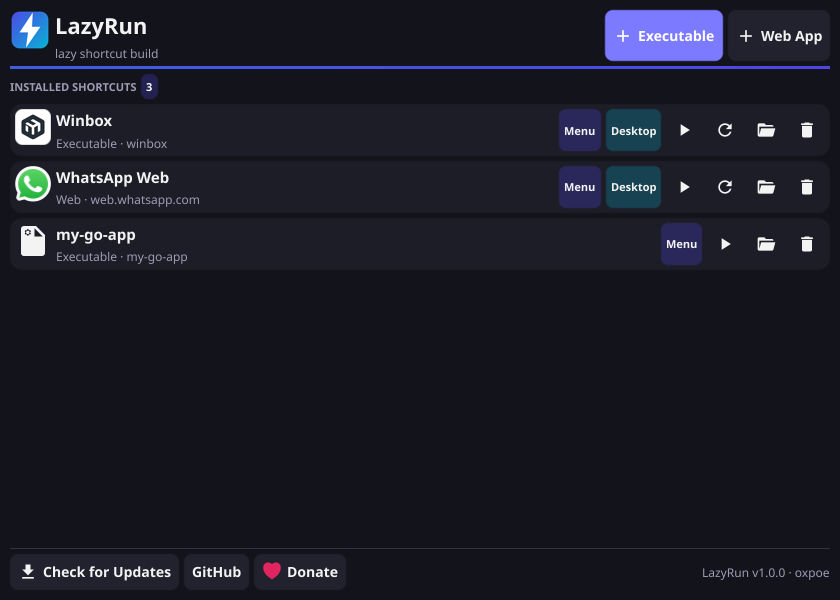
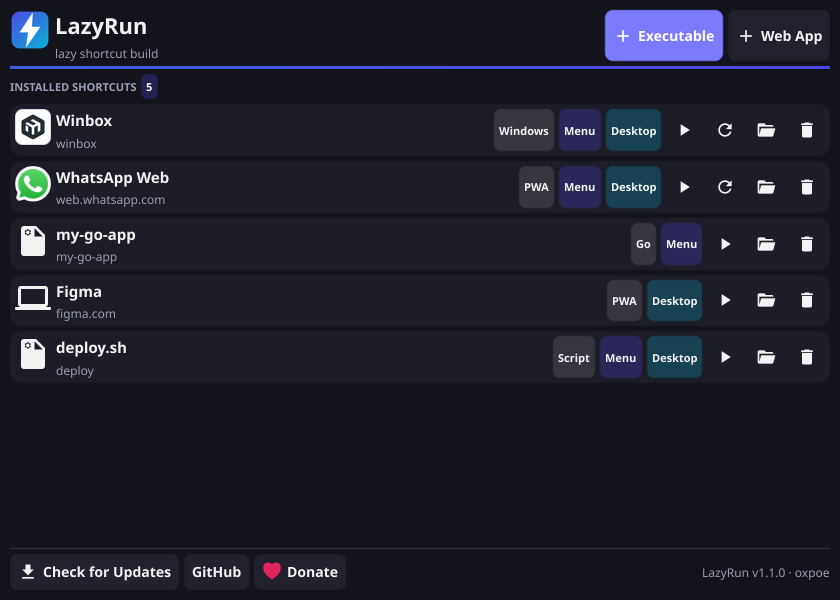
Label jenis aplikasi dengan auto-detect (Go/AppImage/Electron/Script/Windows/Binary/PWA)
- internal/shortcut/kind.go: deteksi dari isi berkas - build info Go, magic
  AppImage, resources/*.asar untuk Electron, shebang untuk script, MZ untuk .exe
- .exe Windows kini boleh dipasang dan dijalankan lewat wine (Exec=wine <path>);
  kalau wine tidak terpasang, install ditolak dengan pesan jelas
- metadata menyimpan kind; chip jenis ditampilkan di setiap baris shortcut
  (data lama tetap tampil sebagai Executable/PWA)
- dialog menampilkan hasil deteksi setelah berkas dipilih, mis. 'winbox.exe - windows'
- README: bagian label otomatis + screenshot baru

diff --git a/internal/shortcut/kind_test.go b/internal/shortcut/kind_test.go
@@ -1,0 +1,80 @@
+package shortcut
+
+import (
+	"os"
+	"path/filepath"
+	"testing"
+)
+
+func TestDetectKind(t *testing.T) {
+	dir := t.TempDir()
+
+	write := func(name string, head []byte) string {
+		path := filepath.Join(dir, name)
+		if err := os.WriteFile(path, append(head, make([]byte, 64)...), 0o755); err != nil {
+			t.Fatal(err)
+		}
+		return path
+	}
+
+	elf := []byte{0x7f, 'E', 'L', 'F', 0x02, 0x01, 0x01, 0x00}
+
+	cases := []struct {
+		name string
+		path string
+		want string
+	}{
+		{"windows exe", write("winbox.exe", []byte("MZ\x90\x00")), KindWindows},
+		{"script", write("tool.sh", []byte("#!/bin/sh\n")), KindScript},
+		{"appimage", write("app.AppImage", append(append([]byte{}, elf...), 'A', 'I', 0x02, 0x00)), KindAppImage},
+		{"binary biasa", write("binary", elf), KindBinary},
+	}
+
+	for _, c := range cases {
+		t.Run(c.name, func(t *testing.T) {
+			if got := DetectKind(c.path); got != c.want {
+				t.Errorf("DetectKind() = %q, mau %q", got, c.want)
+			}
+		})
+	}
+
+	// binary Go: test ini sendiri hasil build Go, jadi harus terdeteksi "go"
+	exe, err := os.Executable()
+	if err != nil {
+		t.Fatal(err)
+	}
+	if got := DetectKind(exe); got != KindGo {
+		t.Errorf("DetectKind(test binary) = %q, mau %q", got, KindGo)
+	}
+}
+
+func TestDetectKindElectron(t *testing.T) {
+	dir := t.TempDir()
+	app := filepath.Join(dir, "myapp")
+	if err := os.WriteFile(app, append([]byte{0x7f, 'E', 'L', 'F', 0x02, 0x01, 0x01, 0x00}, make([]byte, 32)...), 0o755); err != nil {
+		t.Fatal(err)
+	}
+	if err := os.MkdirAll(filepath.Join(dir, "resources"), 0o755); err != nil {
+		t.Fatal(err)
+	}
+	if err := os.WriteFile(filepath.Join(dir, "resources", "app.asar"), []byte("x"), 0o644); err != nil {
+		t.Fatal(err)
+	}
+
+	if got := DetectKind(app); got != KindElectron {
+		t.Errorf("DetectKind(electron) = %q", got)
+	}
+}
+
+func TestDetectKindUnknownFile(t *testing.T) {
+	path := filepath.Join(t.TempDir(), "catatan.txt")
+	if err := os.WriteFile(path, []byte("halo"), 0o644); err != nil {
+		t.Fatal(err)
+	}
+	if got := DetectKind(path); got != "" {
+		t.Errorf("teks biasa tidak punya kind, dapat %q", got)
+	}
+	if got := DetectKind(filepath.Join(t.TempDir(), "tidak-ada")); got != "" {
+		t.Errorf("berkas tidak ada harus kosong, dapat %q", got)
+	}
+}

diff --git a/internal/shortcut/kind.go b/internal/shortcut/kind.go
@@ -1,0 +1,69 @@
+package shortcut
+
+import (
+	"bytes"
+	"debug/buildinfo"
+	"os"
+	"path/filepath"
+)
+
+// Jenis aplikasi yang bisa dikenali LazyRun.
+const (
+	KindGo       = "go"
+	KindAppImage = "appimage"
+	KindElectron = "electron"
+	KindScript   = "script"
+	KindWindows  = "windows"
+	KindBinary   = "binary"
+	KindPWA      = "pwa"
+)
+
+// DetectKind menebak jenis berkas yang dipilih user:
+// binary Go, AppImage, aplikasi Electron, script, .exe Windows, atau binary biasa.
+func DetectKind(path string) string {
+	f, err := os.Open(path)
+	if err != nil {
+		return ""
+	}
+	head := make([]byte, 12)
+	n, _ := f.Read(head)
+	f.Close()
+	head = head[:n]
+
+	switch {
+	case bytes.HasPrefix(head, []byte("MZ")):
+		return KindWindows
+	case bytes.HasPrefix(head, []byte("#!")):
+		return KindScript
+	case isAppImageHead(head):
+		return KindAppImage
+	case bytes.HasPrefix(head, []byte{0x7f, 'E', 'L', 'F'}):
+		if _, err := buildinfo.ReadFile(path); err == nil {
+			return KindGo
+		}
+		if hasElectronResources(path) {
+			return KindElectron
+		}
+		return KindBinary
+	}
+	return ""
+}
+
+// hasElectronResources mencari berkas penanda Electron di sebelah binary.
+func hasElectronResources(path string) bool {
+	resources := filepath.Join(filepath.Dir(path), "resources")
+	for _, name := range []string{"app.asar", "default_app.asar", "app"} {
+		if _, err := os.Stat(filepath.Join(resources, name)); err == nil {
+			return true
+		}
+	}
+	return false
+}
+
+// isAppImageHead memeriksa magic AppImage (ELF + "AI" pada offset 8).
+// Sengaja terpisah dari internal/update supaya paket ini tidak tergantung ke sana.
+func isAppImageHead(head []byte) bool {
+	return len(head) >= 11 &&
+		head[0] == 0x7f && head[1] == 'E' && head[2] == 'L' && head[3] == 'F' &&
+		head[8] == 'A' && head[9] == 'I' && (head[10] == 0x01 || head[10] == 0x02)
+}

diff --git a/internal/ui/main_window.go b/internal/ui/main_window.go
@@ -129,7 +129,8 @@ func (ui *app) row(sc store.Shortcut) *hoverCard {
 		caption(metaText(sc)),
 	)
 
-	chips := make([]fyne.CanvasObject, 0, 3)
+	chips := make([]fyne.CanvasObject, 0, 4)
+	chips = append(chips, chip(kindLabel(sc), colorNameChipKind))
 	if sc.Targets.Menu {
 		chips = append(chips, chip(T("chip_menu"), colorNameChipMenu))
 	}
@@ -157,18 +158,44 @@ func (ui *app) row(sc store.Shortcut) *hoverCard {
 		actions))
 }
 
-// metaText menampilkan tipe shortcut dan penanda singkatnya.
+// kindLabel adalah label jenis aplikasi hasil auto-detect.
+// Istilahnya teknis (nama teknologi), jadi tidak diterjemahkan.
+func kindLabel(sc store.Shortcut) string {
+	switch sc.Kind {
+	case shortcut.KindGo:
+		return "Go"
+	case shortcut.KindAppImage:
+		return "AppImage"
+	case shortcut.KindElectron:
+		return "Electron"
+	case shortcut.KindScript:
+		return "Script"
+	case shortcut.KindWindows:
+		return "Windows"
+	case shortcut.KindBinary:
+		return "Binary"
+	case shortcut.KindPWA:
+		return "PWA"
+	}
+	// shortcut lama (sebelum ada auto-detect)
+	if sc.Type == store.TypeWebApp {
+		return "PWA"
+	}
+	return "Executable"
+}
+
+// metaText menampilkan penanda singkat: nama berkas binary atau host web app.
 func metaText(sc store.Shortcut) string {
 	if sc.Type == store.TypeWebApp {
 		if host := hostOf(sc.URL); host != "" {
-			return "Web · " + host
+			return host
 		}
-		return "Web"
+		return sc.URL
 	}
 	if sc.BinaryPath != "" {
-		return "Executable · " + filepath.Base(sc.BinaryPath)
+		return filepath.Base(sc.BinaryPath)
 	}
-	return "Executable"
+	return sc.Name
 }
 
 func fallbackIcon(sc store.Shortcut) fyne.Resource {

diff --git a/internal/ui/main_window_test.go b/internal/ui/main_window_test.go
@@ -5,6 +5,7 @@ import (
 
 	"fyne.io/fyne/v2/test"
 
+	"lazyrun/internal/shortcut"
 	"lazyrun/internal/store"
 )
 
@@ -28,11 +29,37 @@ func TestBuildMainWindow(t *testing.T) {
 
 func TestMetaText(t *testing.T) {
 	sc := store.Shortcut{Type: store.TypeWebApp, URL: "https://example.com/x", Targets: store.Targets{Menu: true}}
-	if got := metaText(sc); got != "Web · example.com" {
+	if got := metaText(sc); got != "example.com" {
 		t.Errorf("metaText() = %q", got)
 	}
 	exe := store.Shortcut{Type: store.TypeExecutable, BinaryPath: "/home/u/.local/bin/winbox"}
-	if got := metaText(exe); got != "Executable · winbox" {
+	if got := metaText(exe); got != "winbox" {
 		t.Errorf("metaText() = %q", got)
+	}
+}
+
+func TestKindLabel(t *testing.T) {
+	cases := map[string]string{
+		shortcut.KindGo:       "Go",
+		shortcut.KindAppImage: "AppImage",
+		shortcut.KindElectron: "Electron",
+		shortcut.KindScript:   "Script",
+		shortcut.KindWindows:  "Windows",
+		shortcut.KindBinary:   "Binary",
+		shortcut.KindPWA:      "PWA",
+	}
+	for kind, want := range cases {
+		sc := store.Shortcut{Kind: kind, Type: store.TypeExecutable}
+		if got := kindLabel(sc); got != want {
+			t.Errorf("kindLabel(%q) = %q, mau %q", kind, got, want)
+		}
+	}
+
+	// data lama tanpa kind
+	if got := kindLabel(store.Shortcut{Type: store.TypeExecutable}); got != "Executable" {
+		t.Errorf("kindLabel(lama, executable) = %q", got)
+	}
+	if got := kindLabel(store.Shortcut{Type: store.TypeWebApp}); got != "PWA" {
+		t.Errorf("kindLabel(lama, webapp) = %q", got)
 	}
 }

diff --git a/internal/shortcut/executable.go b/internal/shortcut/executable.go
@@ -5,6 +5,7 @@ import (
 	"fmt"
 	"net/url"
 	"os"
+	"os/exec"
 	"path/filepath"
 	"strings"
 	"time"
@@ -65,9 +66,20 @@ func InstallExecutable(o ExecOptions) (store.Shortcut, error) {
 		return sc, err
 	}
 
+	// jenis aplikasi dideteksi otomatis; .exe Windows dijalankan lewat wine
+	kind := DetectKind(o.BinaryPath)
+	execArgs := []string{binDst}
+	if kind == KindWindows {
+		wine, err := exec.LookPath("wine")
+		if err != nil {
+			return sc, errors.New("this is a Windows .exe; install wine first so the shortcut can run it")
+		}
+		execArgs = []string{wine, binDst}
+	}
+
 	entry := Entry{
 		Name:       name,
-		ExecArgs:   []string{binDst},
+		ExecArgs:   execArgs,
 		Icon:       iconPath,
 		Categories: category(o.Category, "Utility;"),
 		NoDisplay:  !o.Menu,
@@ -80,6 +92,7 @@ func InstallExecutable(o ExecOptions) (store.Shortcut, error) {
 		Slug:        sl,
 		Name:        name,
 		Type:        store.TypeExecutable,
+		Kind:        kind,
 		ExecArgs:    entry.ExecArgs,
 		BinaryPath:  binDst,
 		IconPath:    iconPath,
@@ -174,6 +187,7 @@ func InstallWebApp(o WebOptions) (store.Shortcut, error) {
 		Slug:        sl,
 		Name:        name,
 		Type:        store.TypeWebApp,
+		Kind:        KindPWA,
 		URL:         pageURL,
 		Browser:     strings.Join(o.Browser.Exec, " "),
 		ExecArgs:    entry.ExecArgs,

diff --git a/internal/ui/theme.go b/internal/ui/theme.go
@@ -21,6 +21,7 @@ const (
 	colorNameChipMenu   fyne.ThemeColorName = "lazyrunChipMenu"
 	colorNameChipDesk   fyne.ThemeColorName = "lazyrunChipDesktop"
 	colorNameChipBroken fyne.ThemeColorName = "lazyrunChipBroken"
+	colorNameChipKind   fyne.ThemeColorName = "lazyrunChipKind"
 )
 
 // brand menimpa sebagian warna/ukuran tema bawaan; terang/gelap tetap ikut sistem.
@@ -51,6 +52,8 @@ func (b brand) Color(name fyne.ThemeColorName, variant fyne.ThemeVariant) color.
 		return withAlpha(brandIndigo, pick[uint8](dark, 0x44, 0x26))
 	case colorNameChipDesk:
 		return withAlpha(brandCyan, pick[uint8](dark, 0x3D, 0x2C))
+	case colorNameChipKind:
+		return pick(dark, color.NRGBA{R: 0xFF, G: 0xFF, B: 0xFF, A: 0x1C}, color.NRGBA{R: 0x00, G: 0x00, B: 0x00, A: 0x12})
 	case colorNameChipBroken:
 		return withAlpha(color.NRGBA{R: 0xE0, G: 0x4F, B: 0x4F, A: 0xFF}, pick[uint8](dark, 0x4A, 0x2E))
 	}

diff --git a/internal/ui/dialog_executable.go b/internal/ui/dialog_executable.go
@@ -44,7 +44,7 @@ func (ui *app) showExecutableDialog() {
 	browseBin := widget.NewButtonWithIcon(T("browse"), theme.FolderOpenIcon(), func() {
 		pickFile(ui.win, nil, func(path string) {
 			binPath = path
-			binLabel.SetText(filepath.Base(path))
+			binLabel.SetText(filepath.Base(path) + " · " + detectedKind(path))
 			if strings.TrimSpace(nameEntry.Text) == "" {
 				nameEntry.SetText(appNameFromFile(path))
 			}
@@ -134,6 +134,15 @@ func pickFile(win fyne.Window, filter storage.FileFilter, onPick func(path strin
 		fd.SetFilter(filter)
 	}
 	fd.Show()
+}
+
+// detectedKind menampilkan hasil auto-detect jenis berkas di dialog.
+func detectedKind(path string) string {
+	kind := shortcut.DetectKind(path)
+	if kind == "" {
+		return T("kind_unknown")
+	}
+	return kind
 }
 
 func appNameFromFile(path string) string {

diff --git a/internal/shortcut/install.go b/internal/shortcut/install.go
@@ -46,10 +46,12 @@ func checkRunnable(path string) error {
 	head := make([]byte, 4)
 	n, _ := io.ReadFull(f, head)
 	head = head[:n]
-	if bytes.HasPrefix(head, []byte{0x7f, 'E', 'L', 'F'}) || bytes.HasPrefix(head, []byte("#!")) {
+	if bytes.HasPrefix(head, []byte{0x7f, 'E', 'L', 'F'}) ||
+		bytes.HasPrefix(head, []byte("#!")) ||
+		bytes.HasPrefix(head, []byte("MZ")) { // .exe Windows (dijalankan lewat wine)
 		return nil
 	}
-	return errors.New("not an executable binary (ELF, AppImage, or script only)")
+	return errors.New("not an executable (ELF, AppImage, script, or Windows .exe)")
 }
 
 // copyFile menyalin src ke dst lewat file sementara supaya dst tidak pernah setengah tertulis.

diff --git a/internal/store/store.go b/internal/store/store.go
@@ -25,6 +25,7 @@ type Shortcut struct {
 	Slug            string    `json:"slug"`
 	Name            string    `json:"name"`
 	Type            string    `json:"type"`
+	Kind            string    `json:"kind,omitempty"` // hasil auto-detect: go, appimage, electron, script, windows, binary, pwa
 	URL             string    `json:"url,omitempty"`
 	Browser         string    `json:"browser,omitempty"`
 	ExecArgs        []string  `json:"exec_args,omitempty"`

diff --git a/internal/ui/strings.go b/internal/ui/strings.go
@@ -18,6 +18,7 @@ var tr = map[string][2]string{
 	"chip_desktop":      {"Desktop", "Desktop"},
 	"chip_broken":       {"file missing", "file hilang"},
 	"none":              {"not selected", "belum dipilih"},
+	"kind_unknown":      {"unknown type", "jenis tidak dikenal"},
 	"icon_auto":         {"automatic", "otomatis"},
 	"online":            {"Online", "Online"},
 	"search":            {"Search", "Cari"},

diff --git a/README.md b/README.md
@@ -20,8 +20,11 @@ AppImage, no terminal needed.
 - **Repo:** <https://github.com/oxpoe/lazyrun>
 - **Donate:** <https://donasi.oxpoe.qzz.io/>
 
-- **Executable shortcut** — picks an ELF/AppImage/script, copies it to
+- **Executable shortcut** — picks an ELF/AppImage/script/Windows `.exe`, copies it to
   `~/.local/bin/`, installs the icon, writes the `.desktop` entry.
+- **Automatic type label** — every shortcut is tagged with what it actually is,
+  detected from the file: `Go`, `AppImage`, `Electron`, `Script`, `Windows`, `Binary`
+  (`.exe` files are launched through `wine`), or `PWA` for web apps.
 - **Web app shortcut** — opens the URL as an app: `--app=<url>` for
   Chromium-based browsers (Chrome, Chromium, Brave, Edge, Vivaldi, Helium,
   including Flatpak builds), `--new-window` for Firefox.
